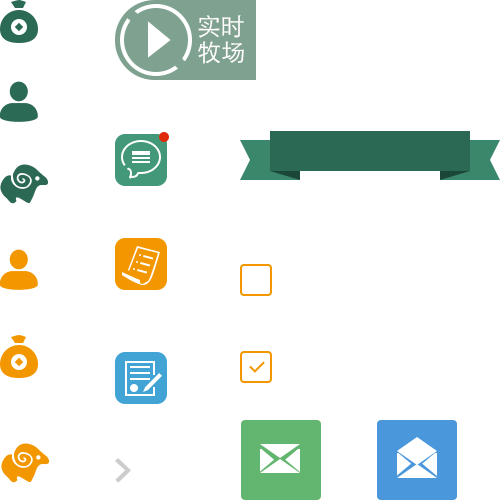
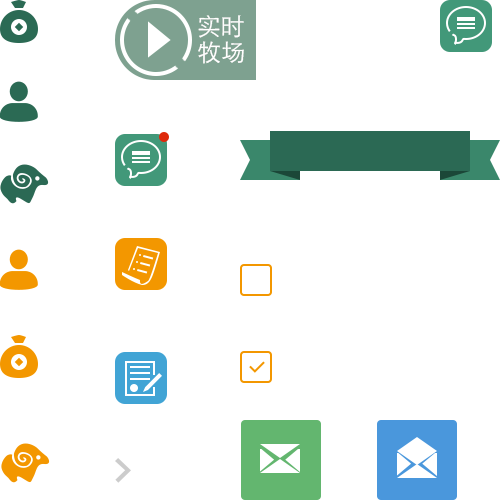
修复BUG

Changed region(s): [[0.87, 0.0, 0.99, 0.12]]

diff --git a/DotNet.CloudFarm.WebSite/Content/sheep_guest.css b/DotNet.CloudFarm.WebSite/Content/sheep_guest.css
@@ -125,6 +125,7 @@ a,a:hover{ text-decoration:none;}
 .my_list ul li .span2{ float:right; margin-right:2rem; width:1rem; height:1.8rem;background:url(../images/bg2.png) no-repeat; background-size:25rem 25rem;background-position:-5.8rem -22.5rem; margin-top:2.1rem;}
 .my_list ul .li1 .span_logo{ background-position:-5.8rem -6.5rem;}
 .my_list ul .li2 .span_logo{ background-position:-5.8rem -11.5rem;}
+.my_list ul .li1 .no_message{ background-position:-22rem 0.3rem;}
 .my_list ul .li3 .span_logo{ background-position:-5.8rem -17.5rem;}
 .quit_login{ width:100%; height:5rem; background:#fff;border-bottom:1px solid #d0d0d0; text-align:center; line-height:5rem; margin-top:1.5rem;}
 .quit_login a{color:#666; font-size:1.6rem; display:inline-block; width:100%; height:5rem; line-height:5rem;}
@@ -188,7 +189,7 @@ a,a:hover{ text-decoration:none;}
 .order_num{ height:3rem; line-height:3rem; padding-bottom:4rem;}
 .order_num_r span{ display:inline-block; width:3rem; height:3rem; line-height:3rem; text-align:center; border-right:1px solid #eee; font-size:22px; cursor: pointer; float:left;}
 .order_num_r .span2{ border-left:1px solid #eee; border-right:none;}
-.order_num_r input{width:4rem;border-style: none;display: inline-block;height: 2.8rem;line-height: 2.8rem;padding: 0px;float: left; }
+.order_num_r input{width:4rem;border-style: none;display: inline-block;height: 2.8rem;line-height: 2.8rem;padding: 0px;float: left; text-align:center; }
 .purchase_claim_section2{ width:94%; margin:-1.3rem 3% 0rem; background:#fff; border-radius:3px;}
 .ranking_List{ position:relative;}
 .ranking_List_box{background:url(../images/bg2.png) no-repeat; width:15rem; height:3rem; line-height:3rem; text-align:center; background-size:26.4rem 26rem;background-position:-12rem -6.5rem; font-size:1.4rem; color:#fff; margin:0 auto; top:1rem;}

diff --git a/DotNet.CloudFarm.WebSite/Controllers/HomeController.cs b/DotNet.CloudFarm.WebSite/Controllers/HomeController.cs
@@ -23,8 +23,6 @@ using Microsoft.AspNet.Identity;
 using Senparc.Weixin.MP.TenPayLibV3;
 using System.Net;
 using System.IO;
-using DotNet.CloudFarm.Domain.Model.Message;
-using DotNet.Common.Collections;
 using DotNet.Common.Models;
 
 namespace DotNet.CloudFarm.WebSite.Controllers
@@ -359,20 +357,15 @@ namespace DotNet.CloudFarm.WebSite.Controllers
         /// <returns></returns>
         public ActionResult MyCenter()
         {
-            var myCenterViewModel = new MyCenterViewModel {User = UserInfo, IsHasNoReadMessage = true};
+            var hasUnRead = MessageService.CheckUnreadMessage(UserInfo.UserId);
+            var myCenterViewModel = new MyCenterViewModel {User = UserInfo, IsHasNoReadMessage = hasUnRead};
             return View(myCenterViewModel);
         }
 
-        public ActionResult OrderList(int pageIndex=1,int pageSize=2)
+        public ActionResult OrderList(int pageIndex=1,int pageSize=10)
         {
             var result = OrderService.GetOrderList(this.UserInfo.UserId, pageIndex, pageSize);
             return View(result);
-        }
-
-        public JsonResult GetOrderList(int pageIndex = 1, int pageSize = 2)
-        {
-            var result = OrderService.GetOrderList(this.UserInfo.UserId, pageIndex, pageSize);
-            return Json(result);
         }
 
         /// <summary>
@@ -416,7 +409,7 @@ namespace DotNet.CloudFarm.WebSite.Controllers
             return result;
         }
 
-        public ActionResult MessageList(int pageIndex=1,int pageSize=2)
+        public ActionResult MessageList(int pageIndex=1,int pageSize=10)
         {
             try
             {
@@ -433,25 +426,6 @@ namespace DotNet.CloudFarm.WebSite.Controllers
                 return View(new DotNet.Common.Models.Result<DotNet.CloudFarm.Domain.Model.Message.MessageModel>());
             }
         
-        }
-
-        public JsonResult GetMessageList(int pageIndex = 1, int pageSize = 2)
-        {
-            try
-            {
-                //ControllerContext.RequestContext.HttpContext
-                var result = MessageService.GetMessages(this.UserInfo.UserId, pageIndex, pageSize);
-
-                //修改短信已读状态
-                MessageService.UpdateMessageStatus(this.UserInfo.UserId);
-                return Json(result);
-            }
-            catch (Exception e)
-            {
-                logger.Error(e);
-                return Json(new DotNet.Common.Models.Result<PagedList<MessageModel>>());
-            }
-
         }
 
         public ActionResult OrderDetail(long? orderId)

diff --git a/DotNet.CloudFarm.Domain.Impl/Message/MessageService.cs b/DotNet.CloudFarm.Domain.Impl/Message/MessageService.cs
@@ -33,7 +33,7 @@ namespace DotNet.CloudFarm.Domain.Impl.Message
             var result = new Result<PagedList<MessageModel>>
             {
                 Data = messageDataAccess.GetMessages(userId, pageIndex, pageSize),
-                Status = new Status() { Code="1",Message = ""}
+                Status = new Status() { Code = "1", Message = "" }
             };
             return result; 
         }
@@ -41,6 +41,12 @@ namespace DotNet.CloudFarm.Domain.Impl.Message
         public bool UpdateMessageStatus(int userId)
         {
             return messageDataAccess.UpdateMessageStatus(userId);
+        }
+
+
+        public bool CheckUnreadMessage(int userId)
+        {
+            return messageDataAccess.CheckUnreadMessage(userId);
         }
     }
 }

diff --git a/DotNet.CloudFarm.Domain.DTO/Message/MessageDataAccess.cs b/DotNet.CloudFarm.Domain.DTO/Message/MessageDataAccess.cs
@@ -84,5 +84,17 @@ namespace DotNet.CloudFarm.Domain.DTO.Message
                 return cmd.ExecuteNonQuery() > 0;
             }
         }
+
+
+        public bool CheckUnreadMessage(int userId)
+        {
+            using (var cmd = DataCommandManager.GetDataCommand("CheckUnreadMessage"))
+            {
+                cmd.SetParameterValue("@UserId", userId);
+                var result = Convert.ToInt32(cmd.ExecuteScalar());
+                return result > 0;
+                
+            }
+        }
     }
 }

diff --git a/DotNet.CloudFarm.Domain.Contract/Message/IMessageDataAccess.cs b/DotNet.CloudFarm.Domain.Contract/Message/IMessageDataAccess.cs
@@ -35,5 +35,12 @@ namespace DotNet.CloudFarm.Domain.Contract.Message
         /// <param name="userId"></param>
         /// <returns></returns>
         bool UpdateMessageStatus(int userId);
+
+        /// <summary>
+        /// 检查是否有未读短消息
+        /// </summary>
+        /// <param name="userId"></param>
+        /// <returns></returns>
+        bool CheckUnreadMessage(int userId);
     }
 }

diff --git a/DotNet.CloudFarm.Domain.Contract/Message/IMessageService.cs b/DotNet.CloudFarm.Domain.Contract/Message/IMessageService.cs
@@ -35,5 +35,12 @@ namespace DotNet.CloudFarm.Domain.Contract.Message
         /// <param name="userId"></param>
         /// <returns></returns>
         bool UpdateMessageStatus(int userId);
+
+        /// <summary>
+        /// 检查是否有未读短消息
+        /// </summary>
+        /// <param name="userId"></param>
+        /// <returns></returns>
+        bool CheckUnreadMessage(int userId);
     }
 }
